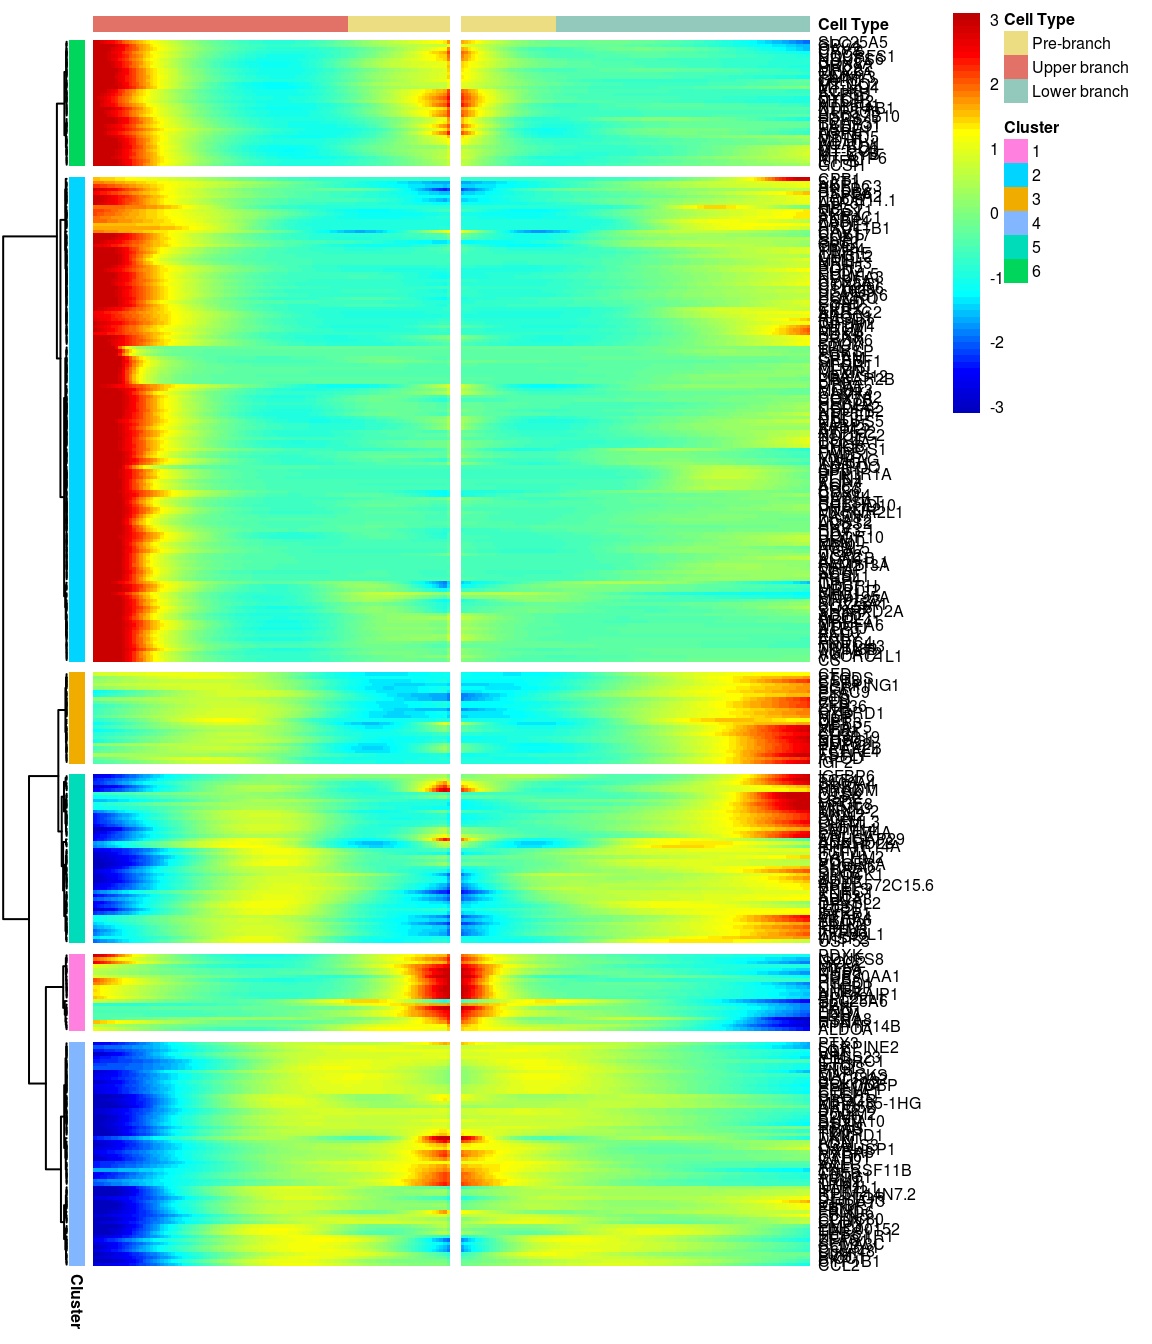
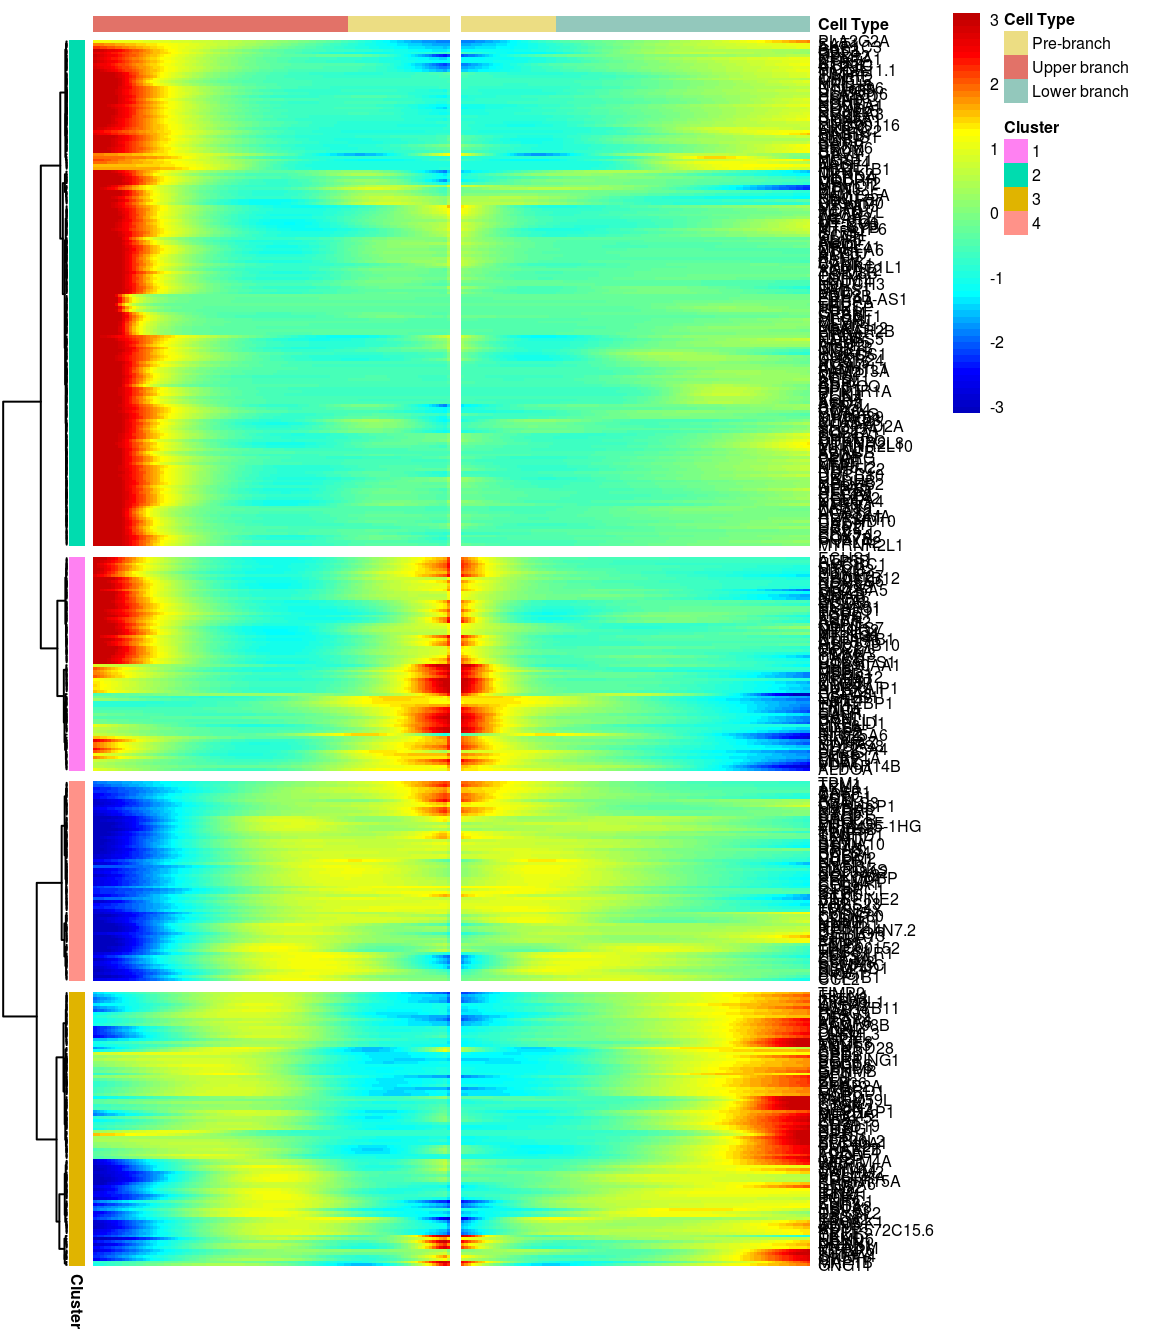
Build site.

diff --git a/docs/10x-180831-monocle.html b/docs/10x-180831-monocle.html
@@ -522,10 +522,10 @@ This reproducible <a href="http://rmarkdown.rstudio.com">R Markdown</a> analysis
 <div class="panel panel-default">
 <div class="panel-heading">
 <p class="panel-title">
-<a data-toggle="collapse" data-parent="#workflowr-checks" href="#strongRepositoryversionstrongahrefhttpsgithubcompytrikfolkertsma10xadipocyteanalysistree7f0e856bb45310eb5b50250d440aa40c9307d39dtargetblank7f0e856a"> <span class="glyphicon glyphicon-ok text-success" aria-hidden="true"></span> <strong>Repository version:</strong> <a href="https://github.com/pytrikfolkertsma/10x-adipocyte-analysis/tree/7f0e856bb45310eb5b50250d440aa40c9307d39d" target="_blank">7f0e856</a> </a>
+<a data-toggle="collapse" data-parent="#workflowr-checks" href="#strongRepositoryversionstrongahrefhttpsgithubcompytrikfolkertsma10xadipocyteanalysistreeddbc7bcf8cd93a984f5eeff7682ef94d2c9a3e35targetblankddbc7bca"> <span class="glyphicon glyphicon-ok text-success" aria-hidden="true"></span> <strong>Repository version:</strong> <a href="https://github.com/pytrikfolkertsma/10x-adipocyte-analysis/tree/ddbc7bcf8cd93a984f5eeff7682ef94d2c9a3e35" target="_blank">ddbc7bc</a> </a>
 </p>
 </div>
[2 lines of base64/hex data omitted]
 <div class="panel-body">
 <p>
 Great! You are using Git for version control. Tracking code development and connecting the code version to the results is critical for reproducibility. The version displayed above was the version of the Git repository at the time these results were generated. <br><br> Note that you need to be careful to ensure that all relevant files for the analysis have been committed to Git prior to generating the results (you can use <code>wflow_publish</code> or <code>wflow_git_commit</code>). workflowr only checks the R Markdown file, but you know if there are other scripts or data files that it depends on. Below is the status of the Git repository when the results were generated:
@@ -595,6 +595,40 @@ Message
 </tr>
 </thead>
 <tbody>
+<tr>
+<td>
+Rmd
+</td>
+<td>
+<a href="https://github.com/pytrikfolkertsma/10x-adipocyte-analysis/blob/ddbc7bcf8cd93a984f5eeff7682ef94d2c9a3e35/analysis/10x-180831-monocle.Rmd" target="_blank">ddbc7bc</a>
+</td>
+<td>
+Pytrik Folkertsma
+</td>
+<td>
+2019-04-03
+</td>
+<td>
+new heatmaps
+</td>
+</tr>
+<tr>
+<td>
+html
+</td>
+<td>
+<a href="https://rawcdn.githack.com/pytrikfolkertsma/10x-adipocyte-analysis/4d92211d694562e05840f32952094e2d6a9b9bef/docs/10x-180831-monocle.html" target="_blank">4d92211</a>
+</td>
+<td>
+Pytrik Folkertsma
+</td>
+<td>
+2019-04-03
+</td>
+<td>
+Build site.
+</td>
+</tr>
 <tr>
 <td>
 Rmd
@@ -1522,15 +1556,16 @@ Pytrik Folkertsma
 <h1>BEAM heatmap</h1>
 <p>Create heatmap of the significant genes with absolute average logFC &gt; 0.3.</p>
 <pre class="r"><code>#ran in terminal because of computation time
-#branched_4_0.5 &lt;- plot_genes_branched_heatmap(cds[row.names(subset(BEAM_signficnat_res, #abs(avgLogFC_State2_State3) &gt; 0.5))],
-#                                         branch_point = 1,
-#                                         num_clusters = 4,
-#                                         cores = 10,
-#                                         show_rownames = T,
-#                                       return_heatmap = T,
-#                                       branch_labels = c(&quot;Upper branch&quot;, &quot;Lower branch&quot;),
-#                                       branch_colors = colors.states
-#                                       )</code></pre>
+branched_3_0.3 &lt;- plot_genes_branched_heatmap(cds[row.names(subset(BEAM_signficnat_res, abs(avgLogFC_State2_State3) &gt; 0.3))],
+                                         branch_point = 1,
+                                         num_clusters = 3,
+                                         cores = 10,
+                                         show_rownames = T,
+                                       return_heatmap = T,
+                                       branch_labels = c(&quot;Upper branch&quot;, &quot;Lower branch&quot;),
+                                       branch_colors = colors.states
+                                       )</code></pre>
+<p><img src="figure/10x-180831-monocle.Rmd/unnamed-chunk-14-1.png" width="672" style="display: block; margin: auto;" /></p>
 <pre class="r"><code>load(&#39;output/monocle/180831/heatmap&#39;)</code></pre>
 <p>You can visualize changes for all the genes that are significantly branch dependent using a special type of heatmap. This heatmap shows changes in both lineages at the same time. It also requires that you choose a branch point to inspect. Columns are points in pseudotime, rows are genes, and the beginning of pseudotime is in the middle of the heatmap. As you read from the middle of the heatmap to the right, you are following one lineage through pseudotime. As you read left, the other. The genes are clustered hierarchically, so you can visualize modules of genes that have similar lineage-dependent expression patterns.\</p>
 <p>3 clusters, logFC &gt; 0.5:</p>
@@ -1558,6 +1593,17 @@ Date
 </tr>
 </thead>
 <tbody>
+<tr>
+<td>
+<a href="https://github.com/pytrikfolkertsma/10x-adipocyte-analysis/blob/4d92211d694562e05840f32952094e2d6a9b9bef/docs/figure/10x-180831-monocle.Rmd/fig20-1.png" target="_blank">4d92211</a>
+</td>
+<td>
+Pytrik Folkertsma
+</td>
+<td>
+2019-04-03
+</td>
+</tr>
 <tr>
 <td>
 <a href="https://github.com/pytrikfolkertsma/10x-adipocyte-analysis/blob/b064e188886f5176f2cf5d3b38193c9e13cfc3f9/docs/figure/10x-180831-monocle.Rmd/fig20-1.png" target="_blank">b064e18</a>
@@ -1624,18 +1670,172 @@ Pytrik Folkertsma
 </table>
 </div>
 </div>
-<p>5 clusters, genes with logFC &gt; 0.3 between the two branches.</p>
-<pre class="r"><code>gridExtra::grid.arrange(branched_5_0.3$ph_res$gtable)</code></pre>
+<p>3 clusters, genes with logFC &gt; 0.3.</p>
+<pre class="r"><code>gridExtra::grid.arrange(branched_3_0.3$ph_res$gtable)</code></pre>
 <p><img src="figure/10x-180831-monocle.Rmd/fig22-1.png" width="576" style="display: block; margin: auto;" /></p>
+<p>
+<button type="button" class="btn btn-default btn-xs btn-workflowr btn-workflowr-fig" data-toggle="collapse" data-target="#fig-fig22-1">
+Past versions of fig22-1.png
+</button>
+</p>
+<div id="fig-fig22-1" class="collapse">
+<div class="table-responsive">
+<table class="table table-condensed table-hover">
+<thead>
+<tr>
+<th>
+Version
+</th>
+<th>
+Author
+</th>
+<th>
+Date
+</th>
+</tr>
+</thead>
+<tbody>
+<tr>
+<td>
+<a href="https://github.com/pytrikfolkertsma/10x-adipocyte-analysis/blob/4d92211d694562e05840f32952094e2d6a9b9bef/docs/figure/10x-180831-monocle.Rmd/fig22-1.png" target="_blank">4d92211</a>
+</td>
+<td>
+Pytrik Folkertsma
+</td>
+<td>
+2019-04-03
+</td>
+</tr>
+</tbody>
+</table>
+</div>
+</div>
+<p>4 clusters, genes with logFC &gt; 0.3.</p>
+<pre class="r"><code>gridExtra::grid.arrange(branched_4_0.3$ph_res$gtable)</code></pre>
+<p><img src="figure/10x-180831-monocle.Rmd/fig23-1.png" width="576" style="display: block; margin: auto;" /></p>
+<p>
+<button type="button" class="btn btn-default btn-xs btn-workflowr btn-workflowr-fig" data-toggle="collapse" data-target="#fig-fig23-1">
+Past versions of fig23-1.png
+</button>
+</p>
+<div id="fig-fig23-1" class="collapse">
+<div class="table-responsive">
+<table class="table table-condensed table-hover">
+<thead>
+<tr>
+<th>
+Version
+</th>
+<th>
+Author
+</th>
+<th>
+Date
+</th>
+</tr>
+</thead>
+<tbody>
+<tr>
+<td>
+<a href="https://github.com/pytrikfolkertsma/10x-adipocyte-analysis/blob/4d92211d694562e05840f32952094e2d6a9b9bef/docs/figure/10x-180831-monocle.Rmd/fig23-1.png" target="_blank">4d92211</a>
+</td>
+<td>
+Pytrik Folkertsma
+</td>
+<td>
+2019-04-03
+</td>
+</tr>
+</tbody>
+</table>
+</div>
+</div>
+<p>5 clusters, genes with logFC &gt; 0.3.</p>
+<pre class="r"><code>gridExtra::grid.arrange(branched_5_0.3$ph_res$gtable)</code></pre>
+<p><img src="figure/10x-180831-monocle.Rmd/fig24-1.png" width="576" style="display: block; margin: auto;" /></p>
+<p>
+<button type="button" class="btn btn-default btn-xs btn-workflowr btn-workflowr-fig" data-toggle="collapse" data-target="#fig-fig24-1">
+Past versions of fig24-1.png
+</button>
+</p>
+<div id="fig-fig24-1" class="collapse">
+<div class="table-responsive">
+<table class="table table-condensed table-hover">
+<thead>
+<tr>
+<th>
+Version
+</th>
+<th>
+Author
+</th>
+<th>
+Date
+</th>
+</tr>
+</thead>
+<tbody>
+<tr>
+<td>
+<a href="https://github.com/pytrikfolkertsma/10x-adipocyte-analysis/blob/4d92211d694562e05840f32952094e2d6a9b9bef/docs/figure/10x-180831-monocle.Rmd/fig24-1.png" target="_blank">4d92211</a>
+</td>
+<td>
+Pytrik Folkertsma
+</td>
+<td>
+2019-04-03
+</td>
+</tr>
+</tbody>
+</table>
+</div>
+</div>
 <p>6 clusters, genes with logFC &gt; 0.3 between the two branches.</p>
 <pre class="r"><code>gridExtra::grid.arrange(branched_6_0.3$ph_res$gtable)</code></pre>
-<p><img src="figure/10x-180831-monocle.Rmd/fig23-1.png" width="576" style="display: block; margin: auto;" /></p>
+<p><img src="figure/10x-180831-monocle.Rmd/fig25-1.png" width="576" style="display: block; margin: auto;" /></p>
+<p>
+<button type="button" class="btn btn-default btn-xs btn-workflowr btn-workflowr-fig" data-toggle="collapse" data-target="#fig-fig25-1">
+Past versions of fig25-1.png
+</button>
+</p>
+<div id="fig-fig25-1" class="collapse">
+<div class="table-responsive">
+<table class="table table-condensed table-hover">
+<thead>
+<tr>
+<th>
+Version
+</th>
+<th>
+Author
+</th>
+<th>
+Date
+</th>
+</tr>
+</thead>
+<tbody>
+<tr>
+<td>
+<a href="https://github.com/pytrikfolkertsma/10x-adipocyte-analysis/blob/4d92211d694562e05840f32952094e2d6a9b9bef/docs/figure/10x-180831-monocle.Rmd/fig25-1.png" target="_blank">4d92211</a>
+</td>
+<td>
+Pytrik Folkertsma
+</td>
+<td>
+2019-04-03
+</td>
+</tr>
+</tbody>
+</table>
+</div>
+</div>
 <p>7 clusters, genes with logFC &gt; 0.3 between the two branches.</p>
 <pre class="r"><code>gridExtra::grid.arrange(branched_7_0.3$ph_res$gtable)</code></pre>
-<p><img src="figure/10x-180831-monocle.Rmd/fig24-1.png" width="576" style="display: block; margin: auto;" /></p>
+<p><img src="figure/10x-180831-monocle.Rmd/fig26-1.png" width="576" style="display: block; margin: auto;" /></p>
 <p>8 clusters, genes with logFC &gt; 0.3 between the two branches.</p>
 <pre class="r"><code>gridExtra::grid.arrange(branched_8_0.3$ph_res$gtable)</code></pre>
-<p><img src="figure/10x-180831-monocle.Rmd/fig25-1.png" width="576" style="display: block; margin: auto;" /></p>
+<p><img src="figure/10x-180831-monocle.Rmd/fig27-1.png" width="576" style="display: block; margin: auto;" /></p>
 <p>Write BEAM results to files</p>
 <pre class="r"><code>#for (i in 1:length(unique(branched_6_0.3$annotation_row$Cluster))){
 #  BEAM_cluster &lt;- BEAM_signficnat_res[BEAM_signficnat_res$gene_short_name %in% row.names(branched_6_0.3$annotation_row)[branched_6_0.3$annotation_row == i],]
